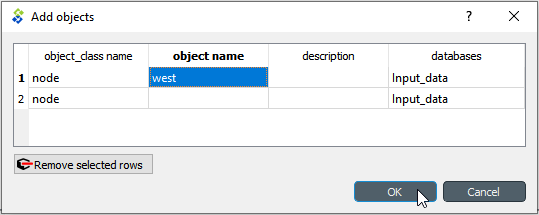
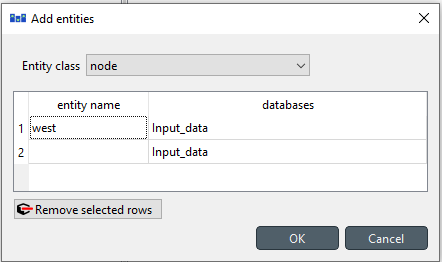
Documentation changes from entity alternative

Changed region(s): [[0.0, 0.0, 1.0, 1.0], [0.8529, 0.0558, 0.8824, 0.0837]]

diff --git a/docs/how_to.md b/docs/how_to.md
@@ -73,9 +73,11 @@ Be careful when choosing datatypes! Maps need to be maps not arrays. (In the fut
 These three power plant types don't use any commodities (i.e. fuels), but are instead dependant on a timeseries profile.
 To create these plants one needs an output node, an unit and a profile.
 
+The unit needs to be added to an alternative in the `Entity Alternative` sheet (if Toolbox 0.8, after 5/2024). 
+
 The unit only needs parameters:
 
-- `is_active`: *yes*
+- `is_active`: *yes* (if Toolbox 0.7, before 5/2024)
 - `existing`: [The maximum capacity of the plant] 
 Additionally these parameters should be at their default values:
 - `conversion_method`: *constant_efficiency*
@@ -103,9 +105,11 @@ Typically nodes are used to maintain an energy balance and therefore they are us
 - `connection`
 - relationship `connection__node__node` to tie these three together.
 
-The connection needs the parameters:
+The `connection` and `nodes` need to be added to an alternative in the `Entity Alternative` sheet (if Toolbox 0.8, after 5/2024). 
 
-- `is_active`: *yes*
+The connection needs parameters:
+
+- `is_active`: *yes* (if Toolbox 0.7, before 5/2024)
 - `existing`: The maximum capacity of the connection [MW]. Applies to both directions.
 - `efficiency`: represents the losses in transferring the energy. Same in both directions.
 
@@ -163,9 +167,13 @@ Examples of all these options are shown in the demand.sqlite.
 In the ***Init*** SQLite database, there is a `scenario` *wind_battery*.
 In the example, the *wind_plant* alone is not able to meet the load in all conditions, but the *battery* will help it to improve the situation.
 
-In FlexTool, only `nodes` can have storage. `Nodes` can therefore be demand nodes, storage nodes or both. To make a storage node one the required parameters are:
+In FlexTool, only `nodes` can have storage. `Nodes` can therefore be demand nodes, storage nodes or both. 
 
-- `is_active`: yes
+The `node` needs to be added to an alternative in the `Entity Alternative` sheet (if Toolbox 0.8, after 5/2024). 
+
+To make a storage node one the required parameters are:
+
+- `is_active`: yes (if Toolbox 0.7, before 5/2024)
 - `has_balance`: yes
 - `has_storage`: yes
 - `existing`: The maximum storage size of battery as the potential energy [MWh]
@@ -190,9 +198,11 @@ Battery also needs charging and discharging capabilities. These could be present
 
 The `transfer_method` can be used by all types of connections, but in this case it is best to choose *regular*, which tries to avoid simultaneous charging and discharing, but can still do it when the model needs to dissipate energy. *exact* method would prevent that, but it would require integer variables and make the storage computationally much more expensive. Model leakage will be reported in the results (forthcoming).
 
+The `connection` needs to be added to an alternative in the `Entity Alternative` sheet (if Toolbox 0.8, after 5/2024). 
+
 The required paremeters of the connection are:
 
-- `is_active`: yes
+- `is_active`: yes (if Toolbox 0.7, before 5/2024)
 - `existing`: The capacity of energy transsmission [MW]
 - `transfer_method`: (see above)
 
@@ -238,7 +248,12 @@ Additional parameters:
 - `fixed_cost`: Annual cost for capacity [CUR/kW]
 
 In many cases some of the investment decisions are tied to each other. Here the battery capacity and the connection capacity of the *battery_inverter* will be tied as they are simultaneously limited by the choice of the battery technology to be invested in.
-To model this, a new constraint needs to be created that ties together the storage capacity of the *battery* and the charging/discharging capacity of the *battery_inverter*. A new `constraint` object *battery_tie_kW_kWh* is created and it is given parameters `constant`, `is_active` and `sense`. Constant could be left out, since it is zero, but `is_active` must be defined in order to include the constraint in the *battery_invest* `alternative`. The `sense` of the constraint must be *equal* to enforce the kw/kWh relation.
+
+To model this, a new constraint needs to be created that ties together the storage capacity of the *battery* and the charging/discharging capacity of the *battery_inverter*. 
+
+A new `constraint` object *battery_tie_kW_kWh* is created and added to an alternative in the `Entity Alternative` sheet (if Toolbox 0.8, after 5/2024).
+
+It is given parameters `constant`, `sense` and `is_active` (if Toolbox 0.7, before 5/2024). Constant could be left out, since it is zero, but `is_active` must be defined in order to include the constraint in the *battery_invest* `alternative`. The `sense` of the constraint must be *equal* to enforce the kw/kWh relation.
 
 Both *battery_inverter* and *battery* need a coefficient to tell the model how they relate to each other. The equation has the capacity variables on the left side of the equation and the constant on the right side.
 
@@ -277,9 +292,11 @@ Finally, FlexTool can actually mix three different types of constraint coefficie
 
 First, a new *heat* `node` is added with the necessary parameters. The `nodes` can be used for energy form of energy or matter, so the heat demand node does not differ from the electricity demand node. 
 
+The *heat* `node` needs to be added to an alternative in the `Entity Alternative` sheet (if Toolbox 0.8, after 5/2024). 
+
 The required parameters are:
 
-- `is_active`: yes
+- `is_active`: yes (if Toolbox 0.7, before 5/2024)
 - `has_balance`: yes
 - `inflow`: Map for the heat demand (negative) [MW]
 - `penalty_up`: a large number to prefer not creating energy from nowhere
@@ -293,9 +310,9 @@ This CHP plant is an another example where the user defined `constraint` (see th
 
 Electricity and heat outputs are fixed by adding a new `constraint` *coal_chp_fix* where the heat and power co-efficients are fixed. You need to create the two relationships `unit__outputNode`, for *coal_chp--heat* and *coal_chp--west*. As can be seen in the bottom part of the figure below, the `constraint_flow_coefficient` parameter for the *coal_chp--heat* and *coal_chp--west* is set as a map value where the `constraint` name matches with the *coal_chp_fix* `constraint` object name. The values are set so that the constraint equation forces the heat output to be twice as large as the electricity output.
 
-Create constraint  *coal_chp_fix* object with parameters:
+Create constraint *coal_chp_fix*, add it to an alternative in the `Entity Alternative` sheet (if Toolbox 0.8, after 5/2024) and add parameters:
 
-- `is_active`: yes
+- `is_active`: yes (if Toolbox 0.7, before 5/2024)
 - `sense`: equal
 - `constant`: 0.0
 
@@ -340,9 +357,11 @@ For the other option of converting the volume to potential energy in the reservo
 
 In this implementation of reservoir hydro power, there is an option to spill water from the storage so that it does not run through the plant. The simplest way of allowing spilling is setting the downward penalty of the node to 0. This way the energy can disappear from the storage without a cost. The quantity of spilled water can be seen from the results as the 'downward slack' of the node.
 
+Add the *reservoir* node to an alternative in the `Entity Alternative` sheet (if Toolbox 0.8, after 5/2024). 
+
 The required parameters of the reservoir node are (node_c and node_t sheets if using Excel input data):
 
-- `is_active`: yes
+- `is_active`: yes (if Toolbox 0.7, before 5/2024)
 - `has_balance`: yes
 - `has_storage`: yes
 - `inflow`: Mapping of the incoming water as volume [m^3/h]
@@ -353,9 +372,10 @@ The required parameters of the reservoir node are (node_c and node_t sheets if u
 
 The `unit` is connected to the *reservoir* `node` and the output `node` *demand_node* (unit_c and unit_node_c in excel):
 
+- Add the unit to an alternative in the `Entity Alternative` sheet (if Toolbox 0.8, after 5/2024).
 - The `efficiency` of the plant is the coefficient of transfering an unit of volume to an unit of electricity (using piecewise linear efficiency is naturally possible), here we use 0.57. 
 - Set `existing` capacity [MW]
-- `is_active`: yes 
+- `is_active`: yes  (if Toolbox 0.7, before 5/2024)
 - Create relations `unit__inputNode`: *hydro_plant*|*reservoir* and `unit__outputNode`: *hydro_plant*|*demand_node*.
 
 ![Hydro reservoir](./hydro_reservoir.PNG)
@@ -372,7 +392,8 @@ Let's start with the downriver demand.
 
 The downriver node represents the requirement to pass a minimum amount of water through the plant to not dry out the river. The downriver node needs:
 
-- `is_active`: yes
+- To be added to an alternative in the `Entity Alternative` sheet (if Toolbox 0.8, after 5/2024).
+- `is_active`: yes (if Toolbox 0.7, before 5/2024)
 - `has_balance`: yes
 - `inflow`: Minimum requirement of water flow as the potential power (Map or constant)[m^3/h]
 - `penalty_up`: a large number to prefer not creating energy from nowhere
@@ -384,9 +405,11 @@ The hydro plant now needs to both pass the water to downriver and the electricit
 
 - `efficiency`: 1 + coefficient
 
-Now the unit creates enough stuff to output, but the model can still choose how it will distribute it between the two output nodes. We still need to fix the ratio of output flows. This is done with an user constraint. Here we call this constraint *hydro_split*. The constraint needs parameters:
+Now the unit creates enough stuff to output, but the model can still choose how it will distribute it between the two output nodes. We still need to fix the ratio of output flows. This is done with an user constraint. Here we call this constraint *hydro_split*. First, it needs to be added to an alternative in the `Entity Alternative` sheet (if Toolbox 0.8, after 5/2024).
 
-- `is_active`: yes
+The constraint needs parameters:
+
+- `is_active`: yes (if Toolbox 0.7, before 5/2024)
 - `sense`: equal
 - `constant`: 0
 
@@ -407,9 +430,11 @@ This spill unit has the relations:
 - `unit_inputNode` (*spill_unit*|*reservoir*)
 - `unit_outputNode` (*spill_unit*|*downriver*)
 
+It needs to be added to an alternative in the `Entity Alternative` sheet (if Toolbox 0.8, after 5/2024).
+
 And parameters:
 
-- `is_active`: yes
+- `is_active`: yes (if Toolbox 0.7, before 5/2024)
 - `efficiency`: 1
 - `existing`: A large enough number to not be a limit
 
@@ -437,9 +462,11 @@ There are two ways to handle the water to electricity coefficient. Here, we conv
 The unit of the inflow should be the power that can be created from the quantity of the incoming water at maximum efficiency [MW]. In the same way, the existing storage capacity should be the maximum amount of stored energy that the reservoir can hold [MWh].
 In this implementation of reservoir hydro power, there is an option to spill water (energy) from the storage so that it does not run through the plant. The simplest way of allowing spilling is setting the downward penalty of the node to 0. This way the energy can disappear from the storage without a cost. The quantity of spilled energy can be seen from the results as the 'downward slack' of the node.
 
+The *reservoir* `node` needs to be added to an alternative in the `Entity Alternative` sheet (if Toolbox 0.8, after 5/2024).
+
 The required parameters of the reservoir node are (node_c and node_t sheets if using Excel input data):
 
-- `is_active`: yes
+- `is_active`: yes (if Toolbox 0.7, before 5/2024)
 - `has_balance`: yes
 - `has_storage`: yes
 - `inflow`: Mapping of the incoming water as the potential power [MW]
@@ -450,16 +477,17 @@ The required parameters of the reservoir node are (node_c and node_t sheets if u
 
 The `unit` is connected to the *reservoir* `node` and the output `node` *nodeA* (unit_c and unit_node_c in excel):
 
+- It needs to be added to an alternative in the `Entity Alternative` sheet (if Toolbox 0.8, after 5/2024).
+- `is_active`: yes (if Toolbox 0.7, before 5/2024)
 - The `efficiency` of the unit can be set to 1 as the inflow time series are directly expressed in MWh (using piecewise linear efficiency is naturally possible).
 - Set `existing` capacity [MW]
-- `is_active`: yes 
 - Create relations `unit__inputNode`: *hydro_plant*|*reservoir* and `unit__outputNode`: *hydro_plant*|*nodeA*.
 
 ![Hydro reservoir for pump](./hydro_reservoir_for_pump.PNG)
 
-Next create the pump_storage. This is the downstream storage from the hydro plant. Again it should have the parameters as the reservoir:
+Next create the pump_storage. This is the downstream storage from the hydro plant. Again it should be added to an alternative in the `Entity Alternative` sheet (if Toolbox 0.8, after 5/2024) and have same the parameters as the reservoir:
 
-- `is_active`: yes
+- `is_active`: yes (if Toolbox 0.7, before 5/2024)
 - `has_balance`: yes
 - `has_storage`: yes
 - `existing`: The maximum size of the storage [MWh]. Note that this really represents the mass of the water and it should be converted as the potential of the energy of the reservoir-plant system. So that 1 liter of water has the same energy in both storages.
@@ -476,11 +504,13 @@ The storage level fixes should be the same in both storages (reservoir and pump 
 
 This sets the starting storage levels to be 50%. The binding will also constrain the state of the storage at the end of of each timeblock to be the same as in the beginning of the timeblock.
 
-Then create the pump unit. It only needs three parameters:
+Then create the pump unit and add it to an alternative in the `Entity Alternative` sheet (if Toolbox 0.8, after 5/2024). 
+
+It only needs three parameters:
 
 - `efficiency` = 1, The real efficiency of the pump is set elsewhere, so use 1.0 here. 
 - `existing`: The wanted capacity
-- `is_active`: *yes* 
+- `is_active`: *yes* (if Toolbox 0.7, before 5/2024)
 
 Set the relationships as follows:
 
@@ -497,9 +527,9 @@ For the hydro plant:
 
 - `Efficiency`:  2 
 
-Create a new constraint (here *plant_storage_nodeA_split*) and add the parameters:
+Create a new constraint (here *plant_storage_nodeA_split*), add it to an alternative in the `Entity Alternative` sheet (if Toolbox 0.8, after 5/2024) and add the parameters:
 
-- `is_active`: yes
+- `is_active`: yes (if Toolbox 0.7, before 5/2024)
 - `sense`: equal
 - `constant`: 0.0
 
@@ -522,9 +552,9 @@ This prevents the water amount from increasing as:
 ```
 unit_output_flow = coeff1 * unit_input_flow1 + coeff2 * unit_input_flow2.
 ```
-We still have to make the unit to consume electricity even though it does not affect the unit output directly. This is done by setting a new constraint to tie the flows to the pump unit from pump storage and the nodeA. Add a constraint (here *pump_storage_nodeA_fix*) the with the parameters:
+We still have to make the unit to consume electricity even though it does not affect the unit output directly. This is done by setting a new constraint to tie the flows to the pump unit from pump storage and the nodeA. Add a constraint (here *pump_storage_nodeA_fix*), add it to an alternative in the `Entity Alternative` sheet (if Toolbox 0.8, after 5/2024) , and add the parameters:
 
-- `is_active`: yes
+- `is_active`: yes (if Toolbox 0.7, before 5/2024)
 - `sense`: equal
 - `constant`: 0.0
 
@@ -551,7 +581,7 @@ Finally, make sure there are *up* and *down* objects in the `UpDown' object clas
 
 Next, the reserve requirement will be defined. A relationship between in the `reserve__upDown__group` class (e.g. *primary--up--electricity*) allows to define the reserve parameters `reserve_method`, `reservation` (i.e. the amount of reserve) and `penalty_reserve` (i.e. the penalty cost in case of lack of reserve). For example, a constant of 10 MW could be used. Even though the name of the `reserve_method` is *timeseries_only*, it can also accept a constant value - it's an exogenous reserve requirement whereas the other two reserve methods are endogenous. Dynamic reserve method calculates the reserve requirement from generation and loads according to user defined factors (`increase_reserve_ratio`). Largest failure method will force enough reserve to cope with a failure of the chosen unit and connection flows.
 
-Parameters from the `reserve__upDown__unit__node` class should be used to define how different units can contribute to different reserves. Parameter `max_share` says how large share of the total capacity of the timestep (existing * efficiency * (profile)) of the unit can contribute to this reserve category (e.g. *coal_plant* may be limited by ramp constraint to provide only 1% of its capacity to an upward primary reserve.) Meanwhile, parameter `reliability` affects what portion of the reserved capacity actually contributes to the reserve (e.g. *wind_plant* may contribute only 80% of its generation to reserve due to uncertainty).
+Parameters from the `reserve__upDown__unit__node` class should be used to define how different units can contribute to different reserves. Note that the entities in this class need to be added to the `Entity Alternative` sheet. Parameter `max_share` says how large share of the total capacity of the timestep (existing * efficiency * (profile)) of the unit can contribute to this reserve category (e.g. *coal_plant* may be limited by ramp constraint to provide only 1% of its capacity to an upward primary reserve.) Meanwhile, parameter `reliability` affects what portion of the reserved capacity actually contributes to the reserve (e.g. *wind_plant* may contribute only 80% of its generation to reserve due to uncertainty).
 
  ![Add a reserve](./reserves.png)
 

diff --git a/docs/tutorial.md b/docs/tutorial.md
@@ -61,6 +61,10 @@ Next step is to add an object for the first `node` that will be called *west*.
 ![Add object1](./add_object_dialog.png) 
 ![Add object2](./add_object_dialog2.png)
 
+Next, add the *west* node to be active in the *west* `alternative`. This can be done from the `Entity Alternative` sheet. `Entity Alternative` chooses if the entity is part of the alternative or not. (If you are in 0.7 Toolbox, last update before 5/2024, this does not exist. Instead, use parameter `is_active`: yes)
+
+![Add object2](./add_entity_alternative.png)
+
 Then, add parameter data to the newly minted *west* `node`:
 *west* node represents the demand in a part of the system.
 
@@ -68,8 +72,7 @@ Then, add parameter data to the newly minted *west* `node`:
 - There are no electricity generating units and the demand cannot be met by ordinary means. The model will therefore use the upward slack variable and accept the `penalty_up` cost associated with it. This represents the cost of not fulfilling the demand. Also downward `penalty_down` is defined although the model is not using it at this stage. Here values of 9000 and 8000 are used respectively. By default the model uses the value 10 000 for these. Therefore, it is not mandatory to set them, but sometimes these values need to be changed, so understanding how they work is nessesary.
 - Penalties and slack variables are tools of linear optimization. They ensure that the problem is feasable at all timesteps even when the in-out-balance of the nodes is violated. If no real penalty values are known, one should just use large enough numbers, so that the system won't prefer penalty to energy production. In the results, you can see at which timesteps the penalties are used.
 - The parameter `has_balance` is related to this and should be set to *yes*. It forces the node to have a balance on inflow and outflow. If the demand is not fulfilled, balance is forced by the slack variable that will "create" the energy with the penalty associated with it. 
-- The *west* `node` needs to have a parameter called `is_active` with value *yes*. This chooses the *west* `node` and all its parameters to be sent to the model. 
-- All parameters here should be part of the *west* `alternative` (column alternative_name) - they will be used whenever a `scenario` includes the *west* `alternative`. 
+- All parameters here should be part of the *west* `alternative` (column alternative_name) - they will be used whenever a `scenario` includes the *west* `alternative`. The difference between parameter `alternative` and `Entity Alternative` is that the former includes only that specific parameter and the latter includes the entity itself.
 
 ![First_node](./west_node.png)
 
@@ -104,13 +107,18 @@ By running the `Open_summary` tool, a quick summary csv file will open. This sup
 In the second step, a coal unit is added. 
 
 - The first thing is to add a new `alternative` *coal* so that all new data added in this step will become part of the *coal* `alternative`.
-- Then one needs to add the objects:
+
+- Then one needs to add the entities:
 
   - `unit` *coal_plant*
   - `node` *coal_market* 
   - `commodity` *coal*
 
-- And relationships:
+The `unit` *coal_plant* and the `node` *coal_market* need to be added to the *coal* alternative from the `Entity Alternative` sheet.
+
+You might be wondering why `commodity` was not added. The simple answer is that it is active by default. Deeper reason is that it is not a structural entity. It can be part of the model only by being connected to a node. Therefore, it is used only if the node is used.
+
+- Add relationships entities:
 
   - `unit__inputNode` *coal_plant, coal_market* to indicate that the *coal_plant* is using inputs from the *coal_market*
   - `unit__outputNode` *coal_plant, west* to indicate that the *coal_plant* will output electricity to the *west* node
@@ -120,7 +128,6 @@ In the second step, a coal unit is added.
 
   - `efficiency` (e.g. 0.4 for 40% efficiency)
   - `existing` to indicate the existing capacity in the coal_plant (e.g. 500 MW)
-  - `is_active` set to *yes* to include the *coal_plant* in the model
 
 - *coal* `commodity` needs just one parameter for `price` (e.g. 20 €/MWh of fuel)
 - *coal_market* `node` needs to have `is_active` set to *yes* 
@@ -129,6 +136,10 @@ In the second step, a coal unit is added.
 ![Add unit](./add_unit.png)
 
 To see how the results change due to the coal power plant, make a new scenario *coal* that has the `alternatives` *init*, *init_2day-test*, *west* and *coal*. Run the ***Export_to_CSV***, ***FlexTool3*** and ***Import_results*** to get the results to the ***Results*** database. If you start to get too many result `alternatives` in the ***Results*** database (e.g. if you happen to run the same scenario multiple times), you can delete old ones by removing the unwanted `alternatives` (right-click on the `alternative`) and then **committing** the database.
+
+If you now want to only export the results of the *coal* run to excel, you can do this by choosing the Alternative filter and choosing the run you want to export.
+
+![Choosing_alternative](./choose_alternative_to_excel.png)
 
 ### Interlude - visualizing the system in a graph
 In Spine Toolbox, it is possible to visualize your system in a graph, which will show all objects, and the relationships between them.
@@ -148,6 +159,8 @@ Next, a wind power plant is added.
   - `unit` *wind_plant*
   - `profile` *wind_profile* since *wind_plant* does not require a commodity, but instead uses a profile to limit the generation to the available wind.
 
+- Add the `unit` *wind_plant* to the *wind* `Entity Alternative`. Again, the `profile` does not need to be added, because it active by default and is only part of the model if connected by a `unit__node__profile` or `node_profile`.
+
 - Add relationships:
 
   - `unit__node__profile` *wind_plant, west, wind_profile*
@@ -158,7 +171,6 @@ Next, a wind power plant is added.
   - `conversion_method` to choose a method for the conversion process (in this case *constant_efficiency*)
   - `efficiency` for *wind_plant* should be set to 1.
   - `existing` capacity can be set to 1000 MW
-  - `is_active` set to *yes* to include the *wind_plant* in the model
 
 - *wind_profile* needs the the parameter `profile` with a map of values where each time step gets the maximum available capacity factor for that time step (see figure). Again, you can copy this from the init database.
 - *wind_plant, west, wind_profile* relationship needs a parameter `profile_method` with the choice *upper_limit* selected. This means that the *wind_plant* must generate at or below its capacity factor.
@@ -174,17 +186,17 @@ Remember to **commit**, execute and have a look at the results (there should be 
 
  - two new `nodes` (*east* and *north*) 
  - three new `connections` between `nodes` (*east_north*, *west_east* and *west_north*). 
-  
+
+- All new `nodes` and `connections` are added to the `Entity Alternative` *network*
+
 The new nodes are kept simple: 
 
-- they have a `is_active` parameter set to *yes*
 - they have a `has_balance` parameter set to *yes* (to force the node to maintain an energy balance)
 - they have a constant negative `inflow` (i.e. demand)
 - penalty values for violating their energy balance
 
 The three connections have the following parameters:
 
-- they have a `is_active` parameter set to *yes*
 - they have a `existing` parameter to indicate the existing interconnection capacity between the nodes
 - they have a `efficiency` parameter  (e.g. 0.9 for 90% efficiency).
 

diff --git a/docs/reference.md b/docs/reference.md
@@ -98,7 +98,8 @@ Timeblocks pick one or more sections from the `timeline` to form a `timeblockset
 These parameters will define how the node will behave and use the data it is given (available choices are marked in *italics*):
 
 - `name` - unique name identifier (case sensitive)
-- `is_active` - is the model/node/unit active in a specific scenario: *yes* (if not defined, then not active)
+- `is_active` - is the model/node/unit active in a specific scenario: *yes* (if not defined, then not active).
+Only exist in Toolbox 0.7, before 5/2024. It is replaced by `Entity Alternative` sheet.
 - `has_balance` - does the node maintain a balance for inputs and outputs: *yes* (if not defined, then balance is not maintained)
 - `has_storage` - does the node represent a storage and therefore have a state: *yes* (if not defined, then no storage)
 - `invest_method` - Choice of investment method: either *not_allowed* or then a combination of 
@@ -170,7 +171,7 @@ Units convert energy (or matter) from one form to another (e.g. open cycle gas t
 
 ### Defining how the unit functions
 
-- `is_active` to state the alternative where the unit becomes active
+- `is_active` to state the alternative where the unit becomes active. Only exist in Toolbox 0.7, before 5/2024. It is replaced by `Entity Alternative` sheet.
 - 'conversion_method' to define the way unit converts inputs to outputs 
 - `startup_method` - Choice of startup method. 'Linear' startup means that the unit can start partially (anything between 0 and full capacity) but will face startup cost as well as minimum load limit based on the capacity started up. 'Binary' startup means that the unit is either off or fully on, but it is computationally more demanding than linearized startups.
 - `minimum_time_method` - Not functional yet. Choice between minimum up- and downtimes (<empty>, *min_downtime*, *min_uptime*, *both*).
@@ -256,7 +257,7 @@ Connections can transfer energy between two nodes. Parameters for the connection
 
 ### Defining how the connection functions
 
-- `is_active` to state the alternative where the connection becomes active
+- `is_active` to state the alternative where the connection becomes active. Only exist in Toolbox 0.7, before 5/2024. It is replaced by `Entity Alternative` sheet.
 - `transfer_method` to define the way the connection transfers energy between the nodes
 - `startup_method` where *linear* startup means that the unit can start partially (anything between 0 and full capacity) but will face startup cost as well as minimum load limit based on the capacity started up. *binary* startup means that the unit is either off or fully on, but it is computationally more demanding than linearized startups.
 - `invest_method` to define investment and retirement limits: either *not_allowed* or then a combination of 
@@ -386,7 +387,7 @@ For `reserve__upDown__group` relationships:
 
 For `reserve__upDown__unit__node` relationships:
 
-- `is_active` - Can the unit provide this reserve. Empty indicates not allowed. Use 'yes' to indicate true.
+- `is_active` - Can the unit provide this reserve. Empty indicates not allowed. Use 'yes' to indicate true. Only exist in Toolbox 0.7, before 5/2024. It is replaced by `Entity Alternative` sheet.
 - `max_share` - [factor] Maximum ratio for the transfer of reserve from the unit to the node. Constant.
 - `reliability` - [factor] The share of the reservation that is counted to reserves (sometimes reserve sources are not fully trusted). Constant.
 - `increase_reserve_ratio` - [factor] The reserve requirement is increased by the flow between the unit and the node multiplied by this ratio. Constant.
@@ -396,7 +397,7 @@ For `reserve__upDown__unit__node` relationships:
 
 For `reserve__upDown__connection__node` relationships:
 
-- `is_active` - Can the unit provide this reserve. Empty indicates not allowed. Use 'yes' to indicate true.
+- `is_active` - Can the unit provide this reserve. Empty indicates not allowed. Use 'yes' to indicate true. Only exist in Toolbox 0.7, before 5/2024. It is replaced by `Entity Alternative` sheet.
 - `max_share` - [factor] Maximum ratio for the transfer of reserve to this node. Constant.
 - `reliability` - [factor] The share of the reservation that is counted to reserves (sometimes reserve sources are not fully trusted). Constant.
 - `increase_reserve_ratio` - [factor] The reserve is increased by generation from this unit multiplied this ratio. Constant.
